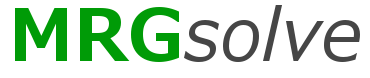
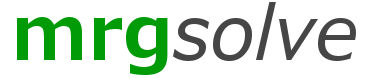
lowercase mrg for mrgsolve

diff --git a/opensourcetools.html b/opensourcetools.html
@@ -38,7 +38,7 @@ title: Open Source Tools
                     <div class="col-sm-7 col-md-7 col-lg-7">
                         <p>Lorem ipsum dolor sit amet, consectetur adipiscing elit. Praesent ligula mi, dapibus sed fermentum at, malesuada eu risus. Quisque posuere vel lectus sed tristique. Fusce porta mollis dolor, blandit ullamcorper elit faucibus in. Quisque suscipit in neque et vehicula. Aenean sollicitudin consectetur sem. Lorem ipsum dolor sit amet, consectetur adipiscing elit.</p>
 
-                        <div style="text-align: center"><a href="/ctas/mrgsolve.html" class="btn btn-large btn-success">Download MRGsolve</a></div>
+                        <div style="text-align: center"><a href="/ctas/mrgsolve.html" class="btn btn-large btn-success">Download mrgsolve</a></div>
                         </div>
           </div>
                 <hr>
